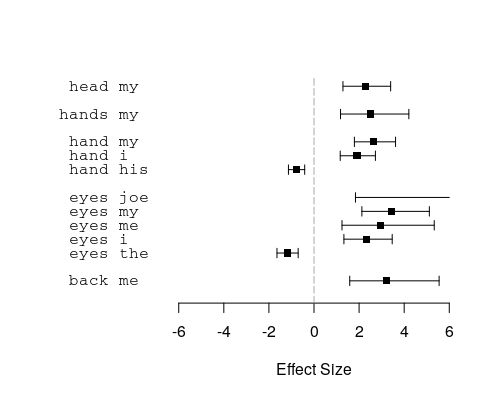
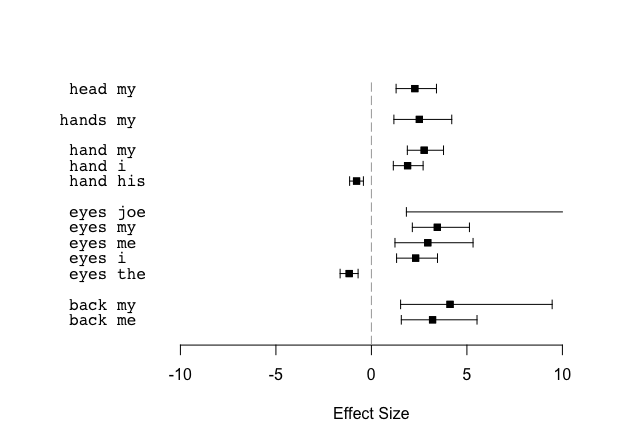
README: Update example (corp_ functions)

diff --git a/README.md b/README.md
@@ -17,38 +17,43 @@ A very simple example of usage
 
 This example takes the two Dickens novels 'Great Expectations' and 'A Tale of Two Cities' and compares the co-occurrences of a set of body part nouns. The idea is that since body part nouns are common in speech suspensions the statistically significant co-occurrence differences should include personal pronouns reflecting the differing narrative voices of the texts.
 
-    library(CorporaCoCo)
-    library(jsonlite)
+    #devtools::install_github("mahlberg-lab/clicclient")
+    library(clicclient)
+    
+    # retrieve texts for 'Tale of two Cities' (TTC) and 'Great Expectations' from the CLiC corpora using the 'clicclient' package
+    TTC <- clic_texts("TTC")
+    GE <- clic_texts("GE")
 
-    get_book_tokens <- function(shortname) {
-        base_uri <- 'http://clic.bham.ac.uk/api'
-        json <- fromJSON(paste0(base_uri, "/subset?corpora=", shortname))
-        tokens <- tolower( unlist( sapply(json$data, function(x) {
-            head(x[[1]], -1)[as.integer(tail(x[[1]], 1)[[1]])+1]
-        }) ) )
-    }
+    # tokenize / create corp_text objects
+    TTC_text <- corp_text(TTC)
+    GE_text <- corp_text(GE)
 
-    GE <- get_book_tokens('GE')
-    TTC <- get_book_tokens('TTC')
+    # count co-occurrences / create corp_surface objects
+    TTC_cooccurs <- corp_surface(TTC_text, span = "5LR")
+    GE_cooccurs <- corp_surface(GE_text, span = "5LR")
 
+     # set the body part nodes
     nodes <- c('back', 'eye', 'eyes', 'forehead', 'hand', 'hands', 'head', 'shoulder')
-
-    results <- surface_coco(TTC, GE, span = '5LR', nodes = nodes, fdr = 0.01)
+  
+    # run co-occurrence comparison with corp_coco
+    results <- corp_coco(TTC_cooccurs, GE_cooccurs, nodes = nodes, fdr = 0.01)
+    
     results
 
     ##          x   y H_A  M_A H_B  M_B effect_size  CI_lower   CI_upper      p_value   p_adjusted
-    ##   1:  back  me   3 1337  49 2341    3.221181  1.584866  5.5489805 5.440975e-07 5.283187e-04
-    ##   2:  eyes   i  10 1640  53 1737    2.322489  1.326370  3.4680980 1.290817e-07 5.963576e-05
-    ##   3:  eyes joe   0 1650  16 1774         Inf  1.839353        Inf 3.552572e-05 6.691836e-03
-    ##   4:  eyes  me   3 1647  25 1765    2.958423  1.241832  5.3326117 3.621123e-05 6.691836e-03
-    ##   5:  eyes  my   5 1645  57 1733    3.434699  2.123620  5.1159658 9.752564e-12 9.011369e-09
-    ##   6:  eyes the 123 1527  62 1728   -1.166398 -1.642460 -0.7024399 2.098712e-07 6.464034e-05
-    ##   7:  hand his 176 2294 114 2536   -0.771065 -1.133959 -0.4126876 1.250677e-05 4.744234e-03
-    ##   8:  hand   i  19 2451  75 2575    1.909259  1.162857  2.7232409 1.629910e-08 9.274188e-06
-    ##   9:  hand  my  13 2457  85 2565    2.646457  1.791317  3.6168202 1.860637e-13 2.117405e-10
-    ##  10: hands  my   5 1125  45 1775    2.511311  1.177037  4.2063750 1.127123e-05 9.321308e-03
-    ##  11:  head  my  10 1710  61 2169    2.265311  1.284027  3.3998354 1.607393e-07 1.689370e-04
-
+    ##   1:  back  me   3 1347  49 2391   3.2014513  1.565327  5.5296252 5.771195e-07 5.638457e-04
+    ##   2:  back  my   1 1349  31 2409   4.1171190  1.528647  9.4632893 1.931898e-05 9.437321e-03
+    ##   3:  eyes   i  10 1640  53 1747   2.3142117  1.318110  3.4597915 1.320717e-07 6.114918e-05
+    ##   4:  eyes joe   0 1650  16 1784         Inf  1.831254        Inf 3.641000e-05 7.000398e-03
+    ##   5:  eyes  me   3 1647  25 1775   2.9502767  1.233703  5.3219224 3.779912e-05 7.000398e-03
+    ##   6:  eyes  my   5 1645  58 1742   3.4522796  2.142760  5.1326458 1.058629e-11 9.802907e-09
+    ##   7:  eyes the 122 1528  62 1738  -1.1620034 -1.638598 -0.6973805 2.839285e-07 8.763925e-05
+    ##   8:  hand his 175 2315 114 2586  -0.7778652 -1.140960 -0.4192322 1.183505e-05 4.540716e-03
+    ##   9:  hand   i  19 2471  75 2625   1.8932508  1.146902  2.7069140 2.704759e-08 1.556589e-05
+    ##  10:  hand  my  12 2478  86 2614   2.7637906  1.880930  3.7755453 5.884107e-14 6.772608e-11
+    ##  11: hands  my   5 1125  45 1775   2.5113109  1.177037  4.2063750 1.127123e-05 9.321308e-03
+    ##  12:  head  my  10 1760  62 2258   2.2723508  1.292764  3.4061853 1.024855e-07 1.111968e-04
+    
     plot(results)
 
 ![Plot of example results.](tools/readme_image_01.png)
